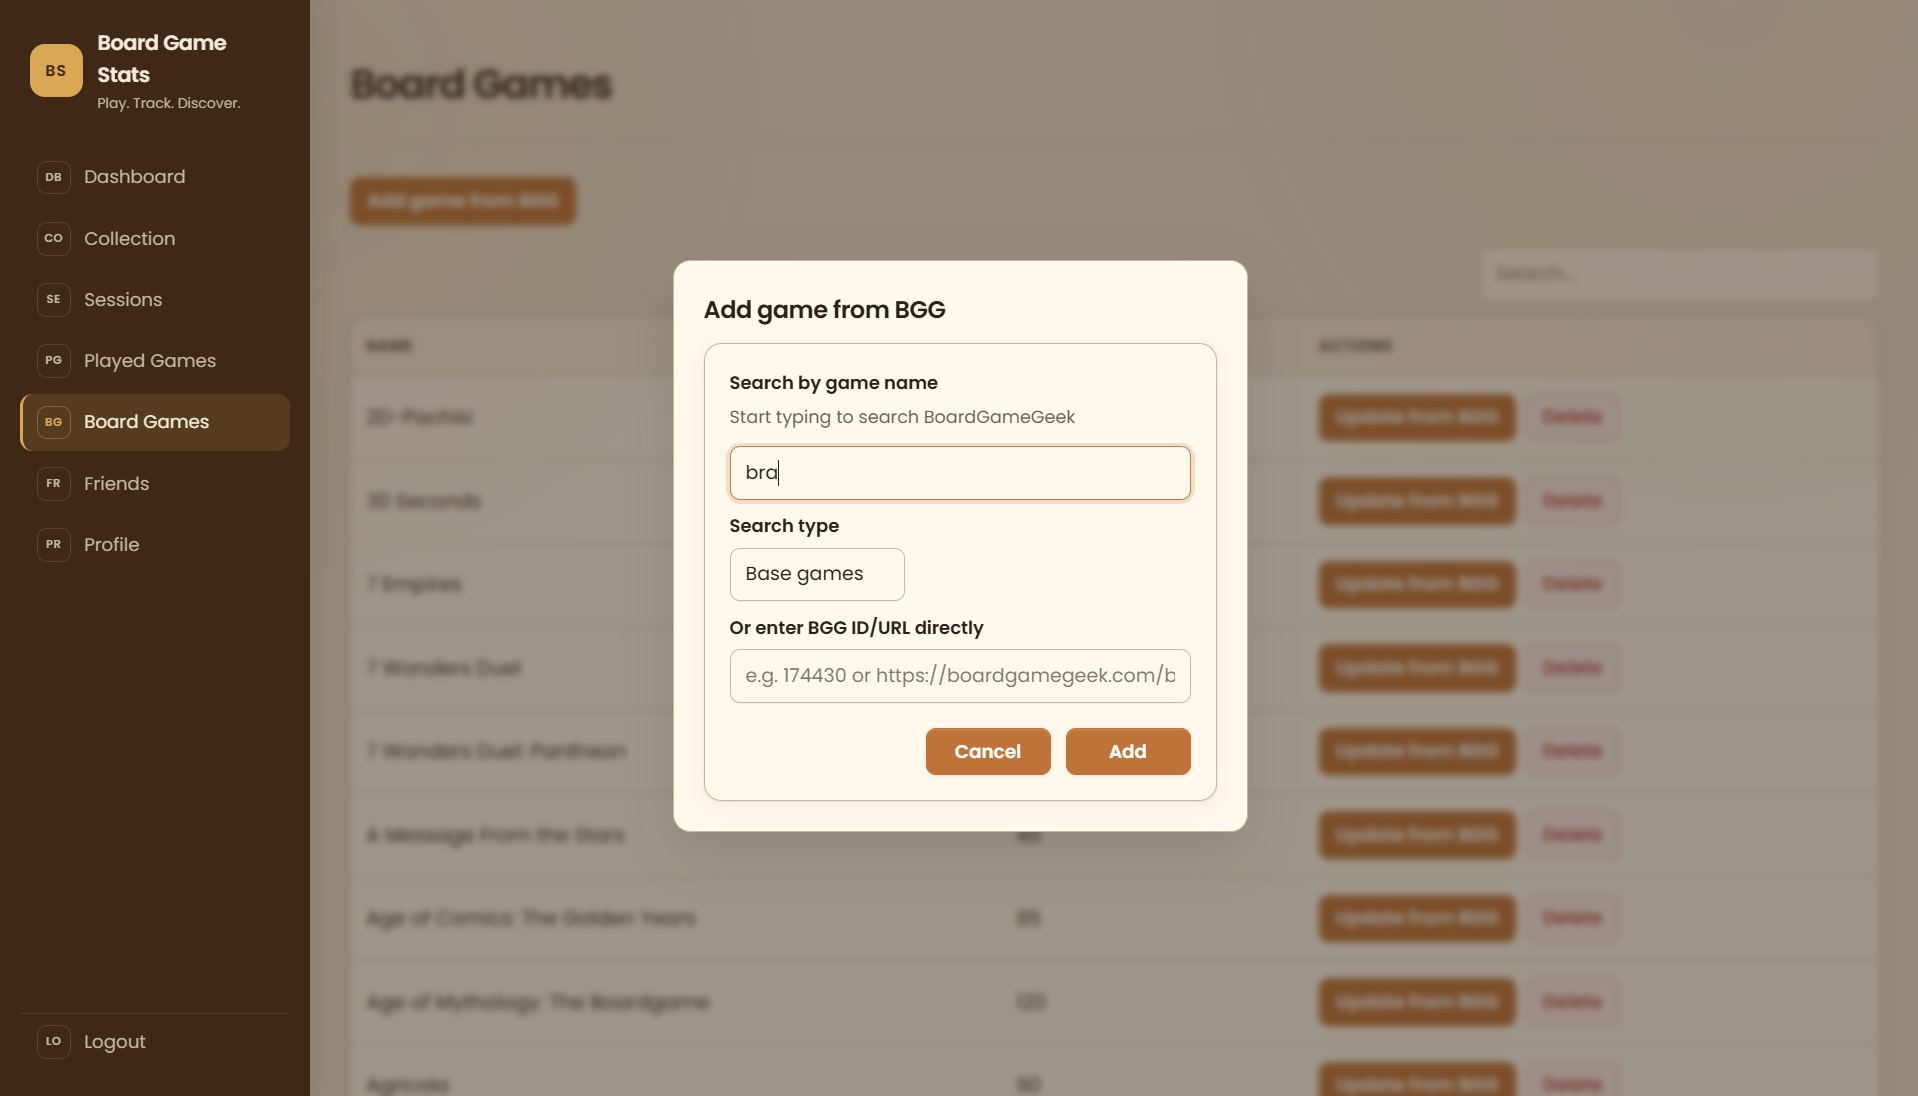
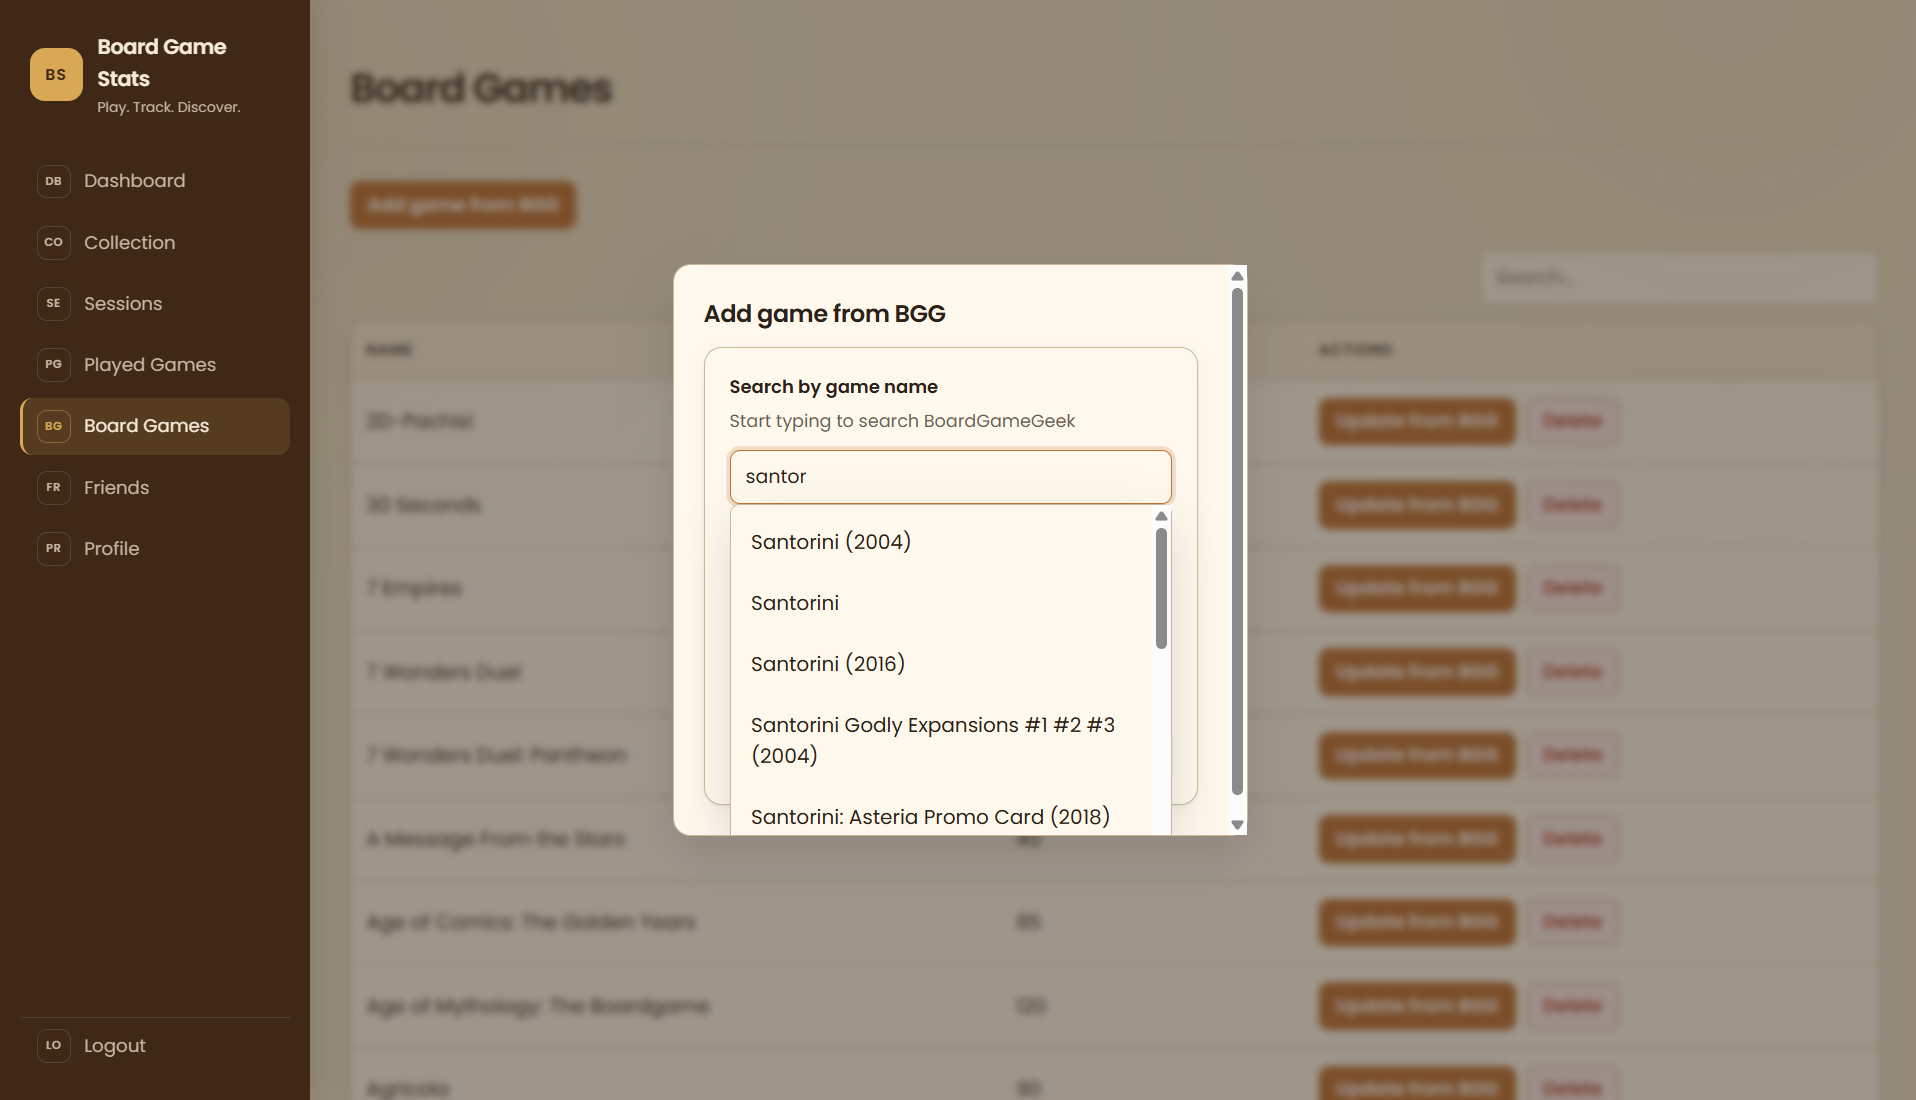
Updated one screenshot for boardgamestats and minor description change bluechicken

diff --git a/src/content/projects/blue-chicken-board-games.md b/src/content/projects/blue-chicken-board-games.md
@@ -8,6 +8,6 @@ projectUrl: "https://bluechickenboardgames.nl"
 captureUrl: "https://bluechickenboardgames.nl/games/"
 ---
 
-A static portfolio site showcasing Joost's published and in-development board games — built by B&E Labs for a friend who designs original games.
+A static portfolio site showcasing Joost's published and in-development board games.
 
 Includes game catalog, galleries, and publisher contact flow.
